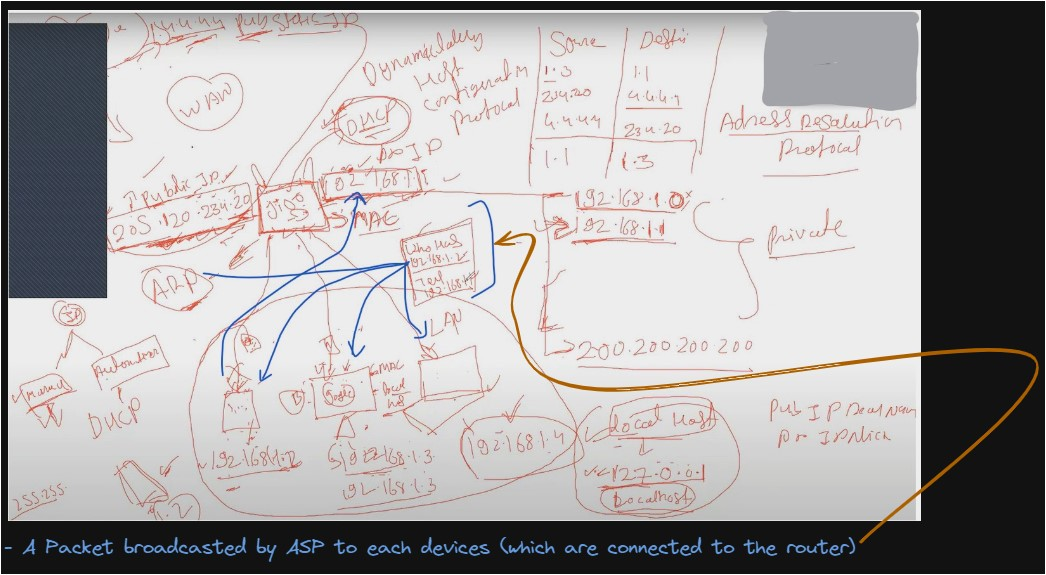
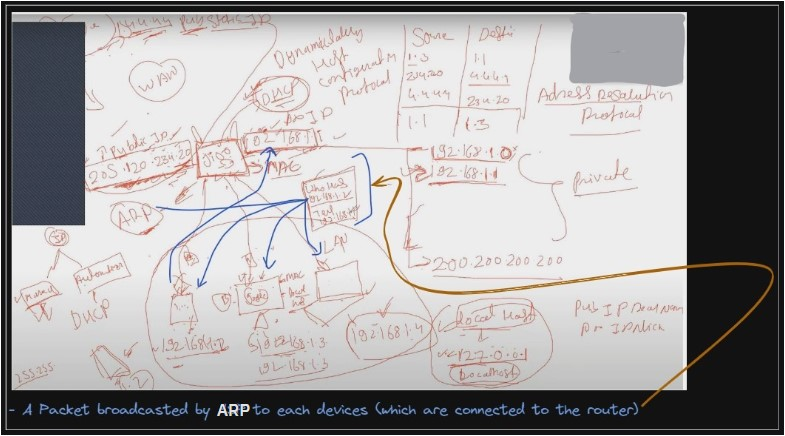
update 4_lecture_m1

Changed region(s): [[0.0, 0.0, 1.0, 1.0], [0.7032, 0.3578, 0.8255, 0.5665], [0.1529, 0.1193, 0.2446, 0.2385]]

diff --git a/01-CEH-notes/01-Module_Networking-concepts/03_lecture-M1.md b/01-CEH-notes/01-Module_Networking-concepts/03_lecture-M1.md
@@ -4,149 +4,152 @@
 ### What we'll learn 
 - we'll connect all those knowledge what we have learned yet 
 > Lecture Name : how internet works
-	1.1) public vs private IP address & LAN vs WAN & localhost
-	1.2) source & destination
-	1.3) 2 ways to give/assign IP address to give to the system & features of router i.e DHCP vs ARP
+> 1. Theory : How Internet Works <br>
+> 	1.1) public vs private IP address & LAN vs WAN & localhost <br>
+> 	1.2) source & destination <br>
+> 	1.3) ways to give/assign IP address to give to the system & features of router i.e DHCP vs ARP
+> 2. Theory : Example : how Internet works
 
 ---
 ### how internet works ?
-- who give us internet ? Ans : ISP , Eg : jio
+- Q : who give us internet ? <br>Ans : ISP (Eg : jio)
 - so when jio or any other ISP launch then they know that many internet gonna connect with us to use our internet
-	- so they buy a range of IP addresses for Eg : let's say `Jio`<br>![](03_lecture-0-M1.jpg)
-	- this is just an example but those ISP companies take a v large range of IP addresses <br>Ques : now tell are these IP address Private or Public IP address (bought by ISP companies for their network users) <br>Hint : when a ISP provide internet to u then where u connect that internet ? Ans : WWW <br>Ans : in WWW , which IP address is used - mean in WAN - i.e public IP address ✔
+	- so they buy a range of IP addresses for Eg : let's say `Jio`<br><img src="../notes-pics/01-Module/03_lecture/03_lecture-0-M1.jpg" alt="Pic 1" width="200"/>
+	- this is just an example but those ISP companies take a v large range of IP addresses <br>Q : now tell are these IP address Private or Public IP address (bought by ISP companies for their network users) ✔<br>Hint : when a ISP provide internet to u then where u connect that internet ? Ans : WWW <br>Ans : in WWW , which IP address is used - mean in WAN - i.e public IP address
 	- so those are Public IP addresses which are bought by IPS like Jio ✔ <br>so the IP address which is allotted via ISP - that IP address is public IP ✔
-	- then u purchase a "router" , let's say a "Jio router" <br>& now our ISP - given one IP address to each internet users from that range (which they bought) for the router ✔ <br>Eg : let's say , Jio ISP gave an `205.120.234.20` IP address to the router <br>![](03_lecture-1-M1.jpg)
-	- & this is a Public IP address which is given to ur router ✔ <br>Now at our home , a broadband installed - broadband means internet
-	- Conclusion : now our Jio ISP gave a Public IP address to ur router & now broadband is installed <br>Ques : what u do after once broadband i setup completely at ur home ? (just skip the process of password) - just tell directly what would u do <br>Ans : u simply directly connect with different devices with the router 
-	- so we'll also directly connect different devices with the router like phone , PC , lapi <br>now tell me that router also a device - means router also gonna talk with those different devices (which u connected) ✔ like this <br> ![](03_lecture-2-M1.jpg)
-	- & even those devices will talk to the router ✔ , so these devices need their own IP address - so that router can talk <br>& router has it's Public IP
-	- so the way "ISP jio" knows that many internet users gonna use their internet , so ISP Jio provided <br>a Public IP address to the router - that's why "ISP jio" kept a large range of different IP addresses for their internet users <br>so same way - the router also knows itself that atleast 15-20 devices will connect with it , so that's why - the router also <br>kept a range of IP address for those devices ✔ like this <br>![](03_lecture-3-M1.jpg)
-	- so here we're assuming a range of IP addresses of router - starting IP address is `192.168.1.0` till end `200.200.200.200` <br>& any router doesn't give any IP address which start or end only with 0 (zero) cuz these IP addresses are reserved by router for something else <br>but don't focus on the range of IP addresses of router - "just focus on understanding the concept" ✔ <br>so that much range of IP addresses - the router kept with itself
-	- Now when no. of devices connect with the router then the router will give unique IP addresses (out of those range) to each connected devices ✔ <br>let's say a phone connected - so it'll get IP address & same process continue for connected devices like this <br>![](03_lecture-4-M1.jpg)
+	- then u purchase a "router" , let's say a "Jio router" <br>& now our ISP - given one IP address to each internet users from that range (which they bought) for the router ✔ <br>Eg : let's say , Jio ISP gave an `205.120.234.20` IP address to the Jio router <br><img src="../notes-pics/01-Module/03_lecture/03_lecture-1-M1.jpg" alt="Pic 1" width="500"/>
+	- & this is a Public IP address which is given to ur Jio router ✔ <br>Now at our home , a broadband installed (broadband means internet)
+	- Conclusion : now our Jio ISP gave a Public IP address to ur router & now broadband is installed <br>Q : what u do after once broadband setup completely at ur home ? <br>(just skip the process of password) - just tell directly what would u do <br>Ans : u simply directly connect with different devices with the router 
+	- so we'll also directly connect different devices with the router like phone , PC , lapi <br>now tell me that router also a device - means router also gonna talk with those different devices (which u connected) ✔ like this <br> <img src="../notes-pics/01-Module/03_lecture/03_lecture-2-M1.jpg" alt="Pic 1" width="500"/>
+	- & even those devices will talk to the router ✔ , so these devices need their own IP address - so that router can talk <br>& router has it's Public IP (which is given by Jio ISP)
+	- so the way "ISP jio" knows that many internet users gonna use their internet , so ISP Jio provided <br>a Public IP address to the router - that's why "ISP jio" kept a large range of different IP addresses for their internet users <br>so same way - the router also knows itself that atleast 15-20 devices will connect with me , so that's why - the router also <br>kept a range of IP address for those devices ✔ like this <br><img src="../notes-pics/01-Module/03_lecture/03_lecture-3-M1.jpg" alt="Pic 1" width="500"/>
+	- so here we're assuming a range of IP addresses of router - starting IP address is `192.168.1.0` till end `200.200.200.200` <br>& any router doesn't give any IP address which start or end only with 0 (zero) cuz these IP addresses are reserved by router for something else - but don't focus on the range of IP addresses of router - "just focus on understanding the concept" ✔ <br>so that much range of IP addresses - the router kept with itself
+	- Now when no. of devices connect with the router then the router will give unique IP addresses (out of those range) to each connected devices ✔ <br>let's say a phone connected - so it'll get IP address & same process continue for connected devices like this <br><img src="../notes-pics/01-Module/03_lecture/03_lecture-4-M1.jpg" alt="Pic 1" width="600"/>
 	- so these devices got the IP address , don't think about why IP address are in sequence which are given to them - these are assumption
-	- Ques : tell that the range of IP addresses - that router have are private or public IPs ? <br>Ans : So those IP addresses are Private cuz router comes in LAN network ✔
-	- Now each IP addresses which is given to each devices are Private IP addresses <br>& the IP address that the router got from ISP i.e Public IP address <br>so acc. to rule , Public IP can talk to Public IP only & Private IP can only talk to Private IP &<br>the Private IP can't take to the Public IP & vice versa ✔
-	- that's why , the Router will keep/take the first IP address from the range (whatever the range - a router have) <br>- so always the router kept with itself the 1st IP address from the range i.e `192.158.1.1` ⭐ like this <br>![](03_lecture-5-M1.jpg)
+	- Q : tell that the range of IP addresses - that router have are private or public IPs ? ✔<br>Ans : So those IP addresses are Private cuz router comes in LAN network
+	- Now each IP addresses which is given to each devices are Private IP addresses <br>& the IP address that the router got from ISP i.e a Public IP address <br>so acc. to rule , Public IP can talk to Public IP only & Private IP can only talk to Private IP &<br>the Private IP can't take to the Public IP & vice versa ✔
+	- that's why , the Router will keep/take the first IP address from the range private IP addresses (whatever the range - a router have) <br>- so always the router kept the 1st IP address with itself from the range i.e `192.158.1.1` <br>for something else (instead of giving reserved Private IPs to different devices) ⭐ like this <br><img src="../notes-pics/01-Module/03_lecture/03_lecture-5-M1.jpg" alt="Pic 1" width="600"/>
 	- Now the Router have 2 different types of IP addresses i.e left one is Public IP & right one in Private IP ✔ <br>Now acc. to rule , the Private IP address can't to the Public IP & vice versa 
-	- so assume google's server IP address is `4.4.4.4` & the server has a public static IP address ✔<br>& the router have 2 different types of IP i.e Public & private IP
-	- So Now , let's say device who have `192.168.1.2` IP address want to talk with google server IP i.e `4.4.4.4` for resources <br>so firstly , this device will search like `google.com` & a packet will generate & the packet will go to the router <br>So acc. to rule , the Private IP can talk to only Private IP , so that packet will go the private IP of the router i.e `192.168.1.1`<br>cuz the Private IP of that device i.e `192.168.1.2` can't directly talk to the Public IP of the router i.e `205.120.234.20`<br>so the packet will go to the the router's Private IP of  i.e `192.168.1.1` & then the router will switch from it's own <br>a Private IP (`192.168.1.1`) into the Public IP (`205.120.234.20`) ✔
+	- so assume google's server IP address is `4.4.4.4` & the google server's has a public static IP address ✔<br>& the router have 2 different types of IP i.e a Public & a private IP
+	- So Now , let's say a device who have `192.168.1.2` IP address want to talk with google server IP i.e `4.4.4.4` for resources <br>so firstly , this device will search like `google.com` & a packet will generate & the packet will go to the router <br>So acc. to rule , the Private IP can talk to only Private IP , so that packet will go the private IP of the router i.e `192.168.1.1`<br>cuz the Private IP of that device i.e `192.168.1.2` can't directly talk to the Public IP of the router i.e `205.120.234.20`<br>so the packet will go to the the router's Private IP of  i.e `192.168.1.1` & then the router will switch from it's own <br>a Private IP (`192.168.1.1`) into the Public IP (`205.120.234.20`) ✔
 		- Cuz the router has a inbuild feature to switch/convert it's own - a Private IP into Public IP & vice versa - for communication <br>cuz a private IP can't directly talk to Public IP & vice versa - that's why ✔
-		- so router is a intermediator , so it'll switch from a Private IP to a Public IP & vice versa <br> ![](03_lecture-6-M1.jpg)
-- Ques : Now tell me how many identities that the router have ? <br>Ans : so a Public IP , a Private IP & the router is a hardware - so MAC address also a identity , so total 3 identities ✔ 
-- Now the devices which are connected , let's say one of them - how many identities a device have ? <br>1) a Private IP address <br>2) a MAC address <br>3) a localhost
+		- so router is a intermediator , so it'll switch from a Private IP to a Public IP & vice versa <br> <img src="../notes-pics/01-Module/03_lecture/03_lecture-6-M1.jpg" alt="Pic 1" width="600"/>
+- Q : Now tell me how many identities that the router have ? <br>Ans : so a Public IP , a Private IP & the router is a hardware - so MAC address also a identity , so total 3 identities ✔ 
+- Now the devices which are connected , let's say one of them is connected , so how many identities a device have ? <br>1) a Private IP address <br>2) a MAC address <br>3) a localhost
 	- What is Localhost ? <br>Ans : just like we said a Public IP - is a real name of a person & a private IP is a nick of a person <br>so same way , a localhost - is like a brain of a person , so let's say - whatever u think/thoughts in ur brain, <br>so those thinking process or thoughts - remain inside ur brain - those stuff doesn't go outside <br>or nobody can't understand about ur thoughts or thinking process <br>- so we're doing self-routing or self-communication or self-talk ✔
-	- in a System (let's say a Laptop or a phone) IP of localhost `imp ⭐` : `127.0.0.1` & the localhost's domain is `localhost` ✔
-	- purpose of it : in ur device (like lapi, phone, PC) , the localhost used for self-testing <br>so the localhost is the 3rd identity ✔
+	- in a device (like a lapi/phone) `imp ⭐` <br>- default IP of localhost : `127.0.0.1` <br>- the localhost's domain is `localhost` ✔
+	- purpose of it : in ur device (like lapi, phone, PC) , the localhost used for self-testing - so the localhost is the 3rd identity ✔
 	- so let's say - the monitor has 3rd identity i.e the localhost
 	- by Default , IP address of the localhost for any device is same i.e `127.0.0.1` ✔
 	- About localhost we'll learn further later on
-- 1.2) Source vs Destination
-	- source : means starting point : means from we're going & <br>Destination : means ending point : means where we want to reach
-	- Ques : if u want to go from Jodhpur to jaipur , so what's source & the destination <br>Ans : Jodhpur - is source & jaipur - is destination <br>if u want to come back from jaipur to Jodhpur , so jaipur - is source & Jodhpur - is destination ✔
-	- Ques : find out Source & destination <br>![](03_lecture-7-M1.jpg)
+- Source vs Destination
+	- source : means starting point (means from where we're going) & <br>Destination : means ending point (means where we want to reach)
+	- Q : if u want to go from Jodhpur to jaipur , so what's source & the destination <br>Ans : Jodhpur - is source & jaipur - is destination <br>if u want to come back from jaipur to Jodhpur , so jaipur - is source & Jodhpur - is destination ✔
+	- Q : find out Source & destination <br><img src="../notes-pics/01-Module/03_lecture/03_lecture-7-M1.jpg" alt="Pic 1" width="600"/>
 	- Eg : let's take - Monitor device , so let's say this device search for google & a packet gets generated & goes to the google <br>So now tell what is source & destination - step by step
 	- situation 1 : a packet request from the monitor to the google public static IP 
 		- STEP 1 : a packet going from the monitor to the router , tell what's the source & the destination <br>source - `192.168.1.3` Private IP of the device , destination - the router who has a private IP i.e `192.168.1.1`
 		- STEP 2 : now the router send that packet request to the google public static IP <br>here Source - is the router's public IP address i.e `205.120.234.20` <br>(cuz the router will switch the IP address due to the "Private & Public IP communication rule")<br>Destination - `4.4.4.4` public static IP of google (assume that IP)
 	- situation 2 : now google got that packet request , now google will reply
 		- STEP 1 : a response of that packet will go from google to the router <br>Source - `4.4.4.4` public static IP of google (assume that IP) <br>Destination - is the router's public IP address i.e `205.120.234.20` 
-		- STEP 2 : a response of that packet will go from the router to that monitor device <br>here Source - is the router's public IP address i.e `102.168.1.1` <br>(cuz here the router will switch the IP address due to the "Private & Public IP communication rule" i.e <br>the Public IP to the Private IP of the router)<br>Destination - `4.4.4.4` public static IP of google (assume that IP)
-- `Repeating above stuff again for understanding new concepts` : <br>Now understand the concept story again , we purchased a router & with the router - we got a Public IP address <br>that Public IP address given by the ISP & this Public IP address is dynamic (means when u close the router/sim of phone <br>then start it again then that Public IP address will get changed) ✔
+		- STEP 2 : a response of that packet will go from the router to that monitor device <br>here Source - is the router's public IP address i.e `102.168.1.1` <br>(cuz here the router will switch the IP address due to the "Private & Public IP communication rule" i.e <br>from the Public IP into the Private IP of the router)<br>Destination - `192.168.1.3` Private IP of the device
+- Repeating above stuff again for understanding new concepts : <br>Now understand the concept story again , we purchased a router & with the router - we got a Public IP address <br>that Public IP address given by the ISP & this Public IP address is dynamic (means when u close the router/sim of phone <br>then start the phone again then that Public IP address will get changed) ✔
 	- when u purchase the router , then only one Public IP address we'll get - same with SIM for phone <br>& the router also want to talk to those devices , so the router also kept a range of IP addresses to connect with those devices <br>but that range of IP addresses are Private IP addresses
-	- & in that range of Private IP addresses of the router , the router will keep a 1st Private IP address with itself (out of that range) <br>for communication with those devices - means the router will not give that 1st IP address to any devices <br>which want to connect with the router✔
+	- & in that range of Private IP addresses of the router , the router will keep a 1st Private IP address with itself (out of that range) <br>for communication with those devices - means the router will not give that 1st IP address to any devices <br>which want to connect with the router ✔
 	- Now once everything connected then the router got 3 identities i.e <br>1) a private IP address (from the range of private IP addresses of the router) <br>2) a Public IP address (got from the ISP) <br>3) a MAC address of the router
 	- & each of those devices have total 3 identities i.e <br>1) a Private IP address <br>2) a MAC address <br>3) a localhost
-	- Now the range is network is created around those devices are not bigger & each devices got Private IPs ✔
-		- Ques : which range of network is this - LAN or WAN ? <br>Ans : means this network range will come in LAN network , so these are devices are connected & forming a LAN network <br>where 5-10 devices are connected with the router
-		- Ques : the public IP of the router (which is got from the ISP) connected with google server <br>so the router's Public IP is connecting with the google (which is spread all over the world) <br>Ans : so the network is formed from the google to the router's Public IP i.e WAN network
-		- So in LAN network , only Private IP addresses used for communication<br>& in WAN network , only Public IP addresses used for communication <br>acc. to that Private vs Public IP communication rule
-		- Pic of which is creating WAN & LAN network : <br>![](03_lecture-8-M1.jpg)
+	- Now the range of network is created (around those devices) which is not bigger & each devices got a Private IP ✔
+		- Q : which range of network is this - LAN or WAN ? <br>Ans : means this network range will come in LAN network , so these are devices are connected <br>& forming a LAN network where 5-10 devices are connected with the router
+		- Q : the public IP of the router (which is got from the ISP) connected with google server <br>so the router's Public IP is connecting with the google (which is spread all over the world) - which network type is it <br>Ans : so the network is formed from the google to the router's Public IP i.e WAN network
+		- acc. to that Private vs Public IP communication rule , <br>in LAN network , only Private IP addresses used for communication<br>& in WAN network , only Public IP addresses used for communication
+		- Pic of which is creating WAN & LAN network : <br><img src="../notes-pics/01-Module/03_lecture/03_lecture-8-M1.jpg" alt="Pic 1" width="600"/>
 	- this is how Internet works 
-	- so the router's Public IP address (which got from the ISP) will change when u off the wifi - which we saw in practical 
+	- so the router's Public IP address (which got from the ISP) will change when u off the wifi - which earlier we saw in practical 
 		- so Public IP address (of the router) is changing cuz it's dynamic Public IP address ✔
-		- & the router - which gave each Private IP address to each devices - will not change directly <br>means when someone's system connect with in ur system then u'll get a different Private IP <br>`Note ✅` : but generally this doesn't happen cuz the router kept a large range of Private IP addresses <br>& there's no need to change also & it's also a Dynamic Private IP address
-- 2 ways to give/assign IP address to give to the system & features of router i.e DHCP vs ARP
-	- Ques : when the router was giving the IP address to each devices then <br>did we manually fill/define the IP address for each devices ? <br>Ans : No , then how each devices got their IP address ✔
+		- & the router - which gave each Private IP address to each devices - will not change directly <br>means when someone's system connect/get that IP address (when ur system is offline) <br>then when u reconnect to the internet - then u'll get a different Private IP <br>`Note ✅` : but generally this doesn't happen cuz the router kept a large range of Private IP addresses <br>& there's no need to change also & it's also a Dynamic Private IP address
+- 2 ways to give/assign IP address to the system & features of router i.e DHCP vs ARP
+	- Q : when the router was giving the IP address to each devices then did we manually fill/define the IP address for each devices ? <br>Ans : No , then how each devices got their IP address ✔
 	- So there're 2 ways to give/assign IP address to the system/device <br>1) Manual <br>2) automation
-	- 1) in Manually , we define the IP address for that system & then we save <br>but cons of this way i.e what if that same IP address have already in a different device <br>then we couldn't able to use that IP address ✔
-	- 2) in automation way , there's a `DHCP` which is a feature/friend of the router <br>DHCP (Dynamically Host Configuration Protocol) 
+	1) in Manually , we define the IP address for that system & then we save <br>but cons of this way i.e what if that same IP address have already in a different device <br>then we couldn't able to use that IP address ✔
+	2) in automation way , there's a `DHCP` which is a feature/friend of the router <br>DHCP (Dynamically Host Configuration Protocol) 
 		- So Purpose of DHCP : 
 			- when one by one devices/systems started connecting with the router <br>then the DHCP - one by one assign/give an IP address to each devices which are connected to the router ✔
 			- Eg : let's say - that phone/device is connected with the router <br>& the device got a Private IP address via DHCP i.e `192.168.1.2` ✔ <br>then after sometime that device got disconnected , so `192.168.1.2` IP address gets free <br>& if any other device will connect to the router then that IP address will be assign/given to that device/system ✔
 			- So purpose/work of DHCP is to assign/give an IP address ✔
 		- so we don't have to manually define/give an IP address to each devices which are getting connected with the router
 	- ARP
-		- How DHCP able to know that which IP address of which system of is free <br>whether that System is connected or not <br>but DHCP only do work related to assign IP only , not more than this ✔
-		- Eg : in a company , we have an account , sales <br>so Sales team - only sale things - so sales is DHCP <br>but account - keep the data of "kisco kitney paise diya" , where money goes , how much to give to that person<br>which person have to give money , which person gave the money , etc <br>so account - is ARP ✔
+		- How DHCP able to know that which IP address of which system of is free <br>whether that System is connected or not - but DHCP only do work related to assign IP only , not more than this ✔
+		- Eg : in a company , we have a account team & sales team <br>so Sales team - only sale things - so sales is DHCP <br>but account team - keep only the data of "kisco kitney paise diya" , where money goes , how much to give to that person<br>which person have to give money , which person gave the money , etc <br>so account - is ARP ✔
 		- so the router has another feature i.e ARP (address resolution protocol)
 		- Broadcast : Broadband (means router/internet) but broadcast - means sending a message <br>to everyone who is connected for that work , so ARP also same as broadcast ✔
-		- Purpose of ARP : it ask a question from each system after small time gap <br>means it sends a packet to each system & let's say ARP will ask a question via sending a packet from that phone device <br>& that packet contain `Who has 192.168.1.2 IP address - tell 192.168.1.1` , <br>so that Packet of ARP means any device who have that IP address - tell to the 1st IP address router i.e `192.168.1.1` IP <br>so that router of `192.168.1.1` IP able to know that u're that device ✔
-			- so `1st Work of ARP` : send a packet to each devices which are connected to the router <br>or u can say broadcast a packet to each devices ✔
-			- `2nd work of ARP` : & if any device have that IP address then that device will tell <br>to the 1st IP address (which is a Private IP of the router) (out of the range of IP address) of the router<br>Note : here that device will not broadcast itself (who have that IP address) that "i'm the one" <br>so the broadcast message will not send by that device (who have that IP address) to the router ✔
-			- So ARP message this Who has `Who has 192.168.1.2 | tell 192.168.1.1` <br> ![](03_lecture-9-M1.jpg)
-		- & DHCP & ARP - are the inbuilt features of the router
-		- so ARP - will send a packet to each devices who are connected to the router by broadcasting that packet , <br>so that ASP able to know who have that IP address
-		- so once ARP with broadcasting that packet to each devices <br>& then once that particular device/system (who have that IP) send a reply in a packet form <br>then that packet contain details of that device i.e MAC address , IP address ✔ <br>& then that packet goes to the Router & the router save that packet within itself
+		- Purpose of ARP : it ask a question from each system after small time gap <br>means it sends a packet to each system (which are connected to the router) <br>& let's say ARP will ask a question via sending a packet from that phone device <br>& that packet contain `Who has 192.168.1.2 IP address - tell to 192.168.1.1` , <br>so that Packet of ARP = means any device who have that IP address - tell to the 1st IP address of the router i.e `192.168.1.1` <br>so that router of `192.168.1.1` IP able to know that "u're that device" ✔
+			- so `1st Work of ARP` : send/broadcast a packet to each devices (which are connected to the router) ✔
+			- `2nd work of ARP` : & if any device have that IP address then that device will tell <br>to the 1st IP address (which is a Private IP of the router) (out of the range of IP address) of the router<br>Note : here that device will not broadcast itself (who have that IP address) that "i'm the one" <br>means the broadcast message will not send by that device (who have that IP address) to the router ✔
+			- So ARP will broadcast the message i.e `Who has 192.168.1.2 | tell 192.168.1.1` <br> <img src="../notes-pics/01-Module/03_lecture/03_lecture-9-M1.jpg" alt="Pic 1" width="600"/>
+		- DHCP & ARP - are the inbuilt features of the router
+		- so ARP - will send a packet to each devices who are connected to the router by broadcasting that packet , <br>so that ARP able to know who have that IP address
+		- so once ARP with broadcasting that packet to each devices <br>& then once that particular device/system (who have that IP) send a reply in a packet form <br>then that packet contain details of that device i.e MAC address + IP address ✔ <br>& then that packet goes to the Router & the router save that packet within itself
 		- Now let's say that Phone device disconnected & the router broadcast a packet request to each devices <br>& but now no reply will get to the router from that phone device (cuz it's disconnected) , <br>so when no reply got from that phone device then the router will save a packet as `192.168.1.2` IP is empty ✔
-			- now the router will tell to DHCP that `192.168.1.2` IP is not connected with any system - so this IP is empty <br>so DHCP will say when a new device will connect to the router then that IP address will be given to that device ✔
+			- now the router will tell to DHCP that `192.168.1.2` IP is not connected with any system - so this IP is empty <br>so DHCP will say when a new device will connect to the router then that IP address will be given to that new device ✔
 		- so this is a working of ARP that ✔<br>1) ARP will broadcast a packet to each system <br>2) & each system will reply but if that system is not connected (who have that IP address) <br>then no reply will get from that system to the router 
 		- Now whatever explain we did yet for ARP - is for in LAN network <br>in WAN network , so when that device/system do google search for a packet/data <br>then the router knows that device of `192.168.1.2` IP did a packet/data search of google.com to access<br>but when a reply/response come from the google then the router know the IP address only of that system <br>but the router doesn't know which system have that `192.168.1.2` IP - means the router not able to identify the device ✔
 			- means : (router only known that device `192.168.1.2` IP did a packet search but the router doesn't know which system have that IP address) ✔
-			- that's why with IP address , MAC address of that system transferred by ARP to the router <br>eg : with aadhar card , PAN card also used cuz both have different use case ✔
+			- that's why with IP address + MAC address of that system transferred by ARP to the router <br>eg : with aadhar card , PAN card also used cuz both have different use case ✔
 			- so in this case , the router will broadcast that packet response via ARP again <br>& ARP will get ON then ARP will send that packet request to each devices - in order to know <br>which device have that IP address , so that device will respond/say that "i have that IP" ✔
 			- then the router - will send that Packet response/reply to that device ✔
-		- this is complete functionality of a Public IP , Private IP , total identities of a device , localhost , where a public IP is getting used - WAN or LAN ? <br>to connect with a world - Public IP used & within range - to connect devices (which are present in our range i.e LAN) - here for communication - Private IP used ✔
+		- this is complete functionality of a Public IP , Private IP , total identities of a device , localhost , where a public IP is getting used - WAN or LAN ?
+		- for communication <br>- to connect with a world = Public IP used & <br>- within range = to connect devices (which are present in our range i.e LAN) - Private IP used ✔
 		- `3rd work of ARP` : whatever the configuration need to be done for the router - like changing the password , any configuration related to the router 
-			- so configuration of the router done on this IP address : http://192.168.1.1/ - which is default IP address of any router
-			- so when u open the router login then `DHCP` shows IP addresses which are assigned to each devices , etc..
+			- so configuration of the router done on this IP address `http://192.168.1.1/` (which is default IP address of any router)
+			- Practical Work : so when u open ur "router-login" page -> `DHCP` shows IP addresses <br>(which are assigned to each devices , etc..)
 			- due to 2-3 reasons , the 1st IP address are by-default given to the router
 
-### Example : 
+### Example : how Internet works
 lecture (30-oct-2023) - all about ports & protocols (timestamp 4:17 - 6:55)
 - let's say Devendra Sir - is currently in Rajasthan & u're in delhi
 - so Devendra sir's system IP is 192.168.1.20 (private IP of the router) & <br>his router's have 2 IP i.e 3.3.3.3 (public IP of the router) & 192.168.1.1 (Private IP of the router)
 - & u'r  system's IP is 4.4.4.4
-- Ques : & u want to connect with sir then which IP will be shared 
-	- Pic <br>![](03_lecture-10-M1.jpg)
-	- i.e 3.3.3.3 - cuz it's a Public IP address of the router which is used in WAN network <br>& 192.168.1.20 <br>- is Private IP of the system of sir & this IP address doesn't go outside of the LAN network <br>- means this IP address limited around the router connection
+- Q : & u want to connect with sir then which IP will be shared 
+	- Pic <br><img src="../notes-pics/01-Module/03_lecture/03_lecture-10-M1.jpg" alt="Pic 1" width="600"/>
+	- i.e 3.3.3.3 - cuz it's a Public IP address of the router which is used in WAN network <br>& 192.168.1.20 <br>- is Private IP of the system of sir & this Private IP address doesn't go outside of the LAN network <br>- means this Private IP address limited around the router connection
 
 ### End of the lecture
-- 1) timeline 7:01 - 7:38
+- Advice : timeline 7:01 - 7:38
 	- don't go in doubt session until u don't have doubt cuz there , many weird doubts come & mostly people ask advance doubts <br>& u'll not understand + u'll also waste ur time too
 	- first try to solve ur doubts my urself then come if still u have doubts
 	- mine conclusion : don't do advance or extra stuff on something else , just clear & learn concepts that u taught till yet & ask doubts from what u have learned yet
-- 2) in Phone , from where it gets the IP address (cuz it's not the router) ? 
+- Q : in Phone , from where it gets the IP address (cuz it's not the router) ? 
 	- so phone's SIM works as a router , so a SIM has Public IP address <br>& as a SIM is working as a single router - when it's only connected with ur phone
 	- but when u give hotspot to someone then ur phone becomes/behave as a router <br>& same it also keep a range of Private IP addresses & those who're connected with ur hotspot <br>all those each devices take a private IP address <br>- so the phone give a IP address to each devices i.e Private IP & the SIM has a IP address i.e Public IP
 	- so whenever someone google search then the packet request goes to ur phone's private IP address <br>& the phone will send that packet request to ur phone's SIM (means router) <br>then the SIM will use the Public IP address to send that packet request to the google server's IP address
 	- if ur friend or someone did a crime then the Public IP address will go of SIM ✔
 	- so our phone also behaves as a router
 	- Imp ⭐ : SIM = router (Public IP address) & phone = private IP address <br>so both can't be Public or Private IP address cuz communication not able to happen & system will get confuse <br>like which IP need to use for accepting the packet response & which IP will be use to send the packet request ✔
-- 3) can we change the Public Static IP address
+- Q : can we change the Public Static IP address
 	- in further lectures , we'll see how to change it
 	- but static IP address are purchased by companies , so generally - for server , companies purchase these static IP address
-- 4) what if we want to convert static IP into dynamic IP ? - for this do we need to purchase
+- Q : what if we want to convert static IP into dynamic IP ? - for this do we need to purchase
 	- Yes
-- 5) IP address of localhost is same ? so why IP address is allotted ? ✔
+- Q : IP address of localhost is same ? so why IP address is allotted ? ✔
 	- for self-testing 
 	- let's say a outside network is not connected , then if u want to do troubleshooting <br>then how u'll do it
 	- so IP address of the localhost - do self-testing on the system
-- 6) in settings of the phone ? 
+- Q : in settings of the phone ? 
 	- the IP address u'll find in setting of the phone i.e Static IP address
 	- & if u think this static IP address is changing but it'll not change <br>& public IP address will never be shown in ur system - so u need to change on the browser ✔
-- 7) `Imp ⭐` :  the range of Private IP address - that the router have
+- Q : `Imp ⭐` :  the range of Private IP address - that the router have
 	- so these range of private IP address used for communication in LAN network
 	- but these Private IP address will not used in WAN network , in WAN network - Public IP address of the router will be used ✔
 	- so these private IP addresses will not go outside - means will not go in WAN network
-- 8) Once online exam complete after submit , then a IP shown - so who which IP is that ?
+- Q : Once online exam complete after submit , then a IP shown - so who which IP is that ?
 	- that IP is their sever - on which we were giving the exam
 	- & the server has a Public Static IP address 
-- 9) when 2 different devices - do same google search then what happen ?
+- Q : when 2 different devices - do same google search then what happen ?
 	- Eg : on keyboard , when u press two different buttons at the same time <br>then at the same time , both input will not be taken , kuch agye pechye hoga ✔
 	- so when 2 different packet request goes (via 2 different devices) to the router <br>then both packet goes at the same time but they both reach gye pechye
 	- so each packet request of different devices will go to same Public IP address of the router 
-- 10) via Public IP address of the router , we can access everything
+- Q : via Public IP address of the router , we can access everything
 	- we'll see later how to do that
 	- cuz actually , big things hacked by Public IP address <br>but whatever the devices are in range of a Private IP address , those things only can be hacked ✔
-	- but to hack those devices which are in range of Private IP address - we need connect & be in that range/area in order to hack private IP address <br>but to hack Public IP address - we can sit any where in the world ✔
+	- but to hack those devices which are in range of Private IP address - we need connect & be in that range/area in order to hack private IP address - but to hack Public IP address , we can sit any where in the world ✔
 	- that's why LAN & WAN network created ✔
